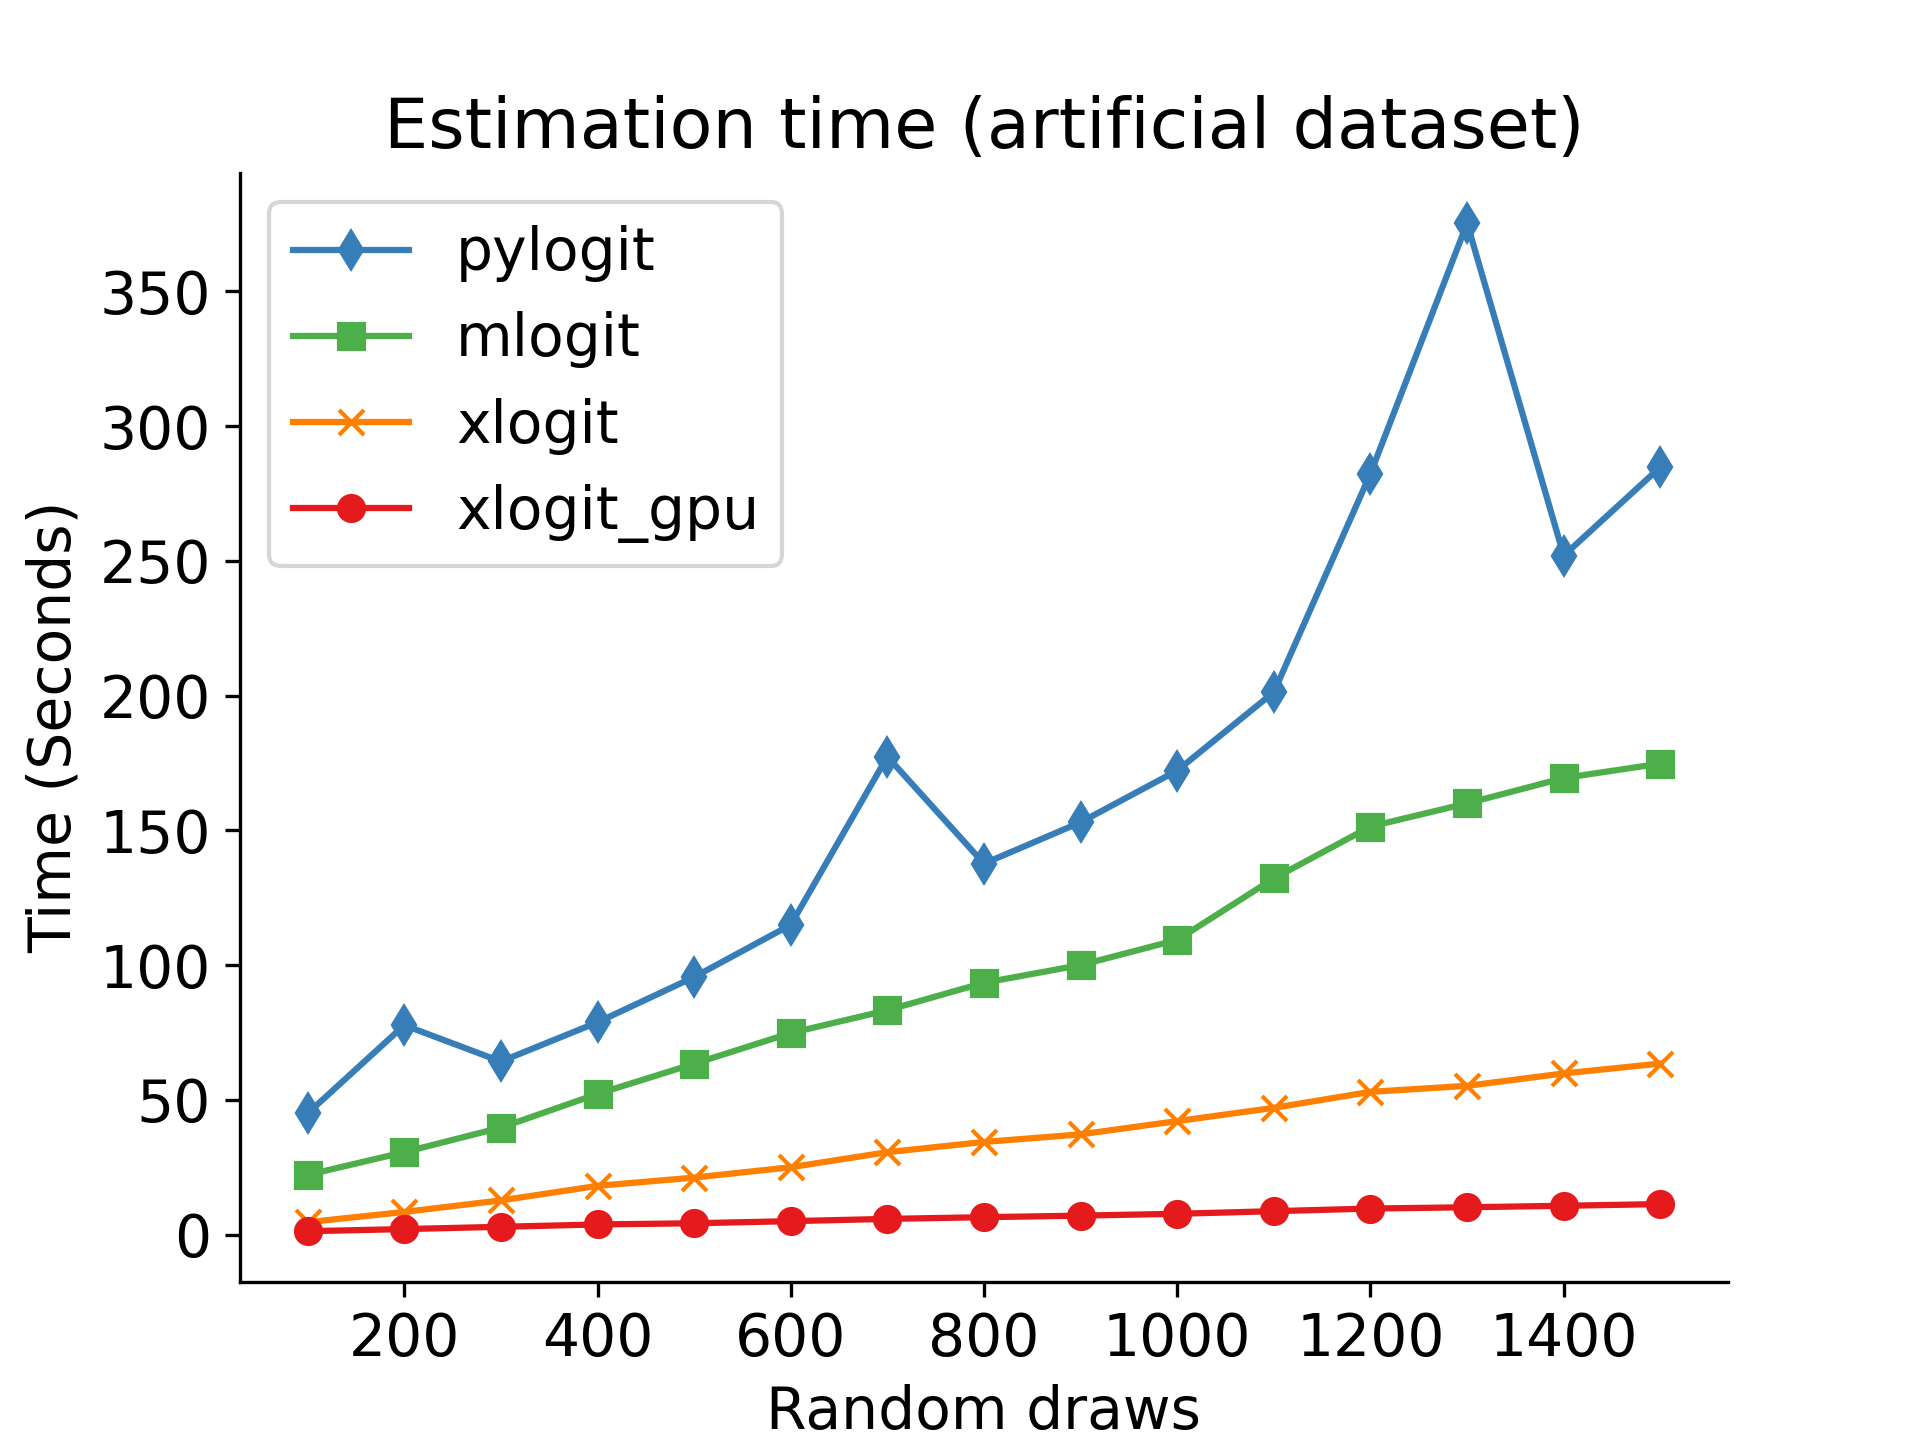
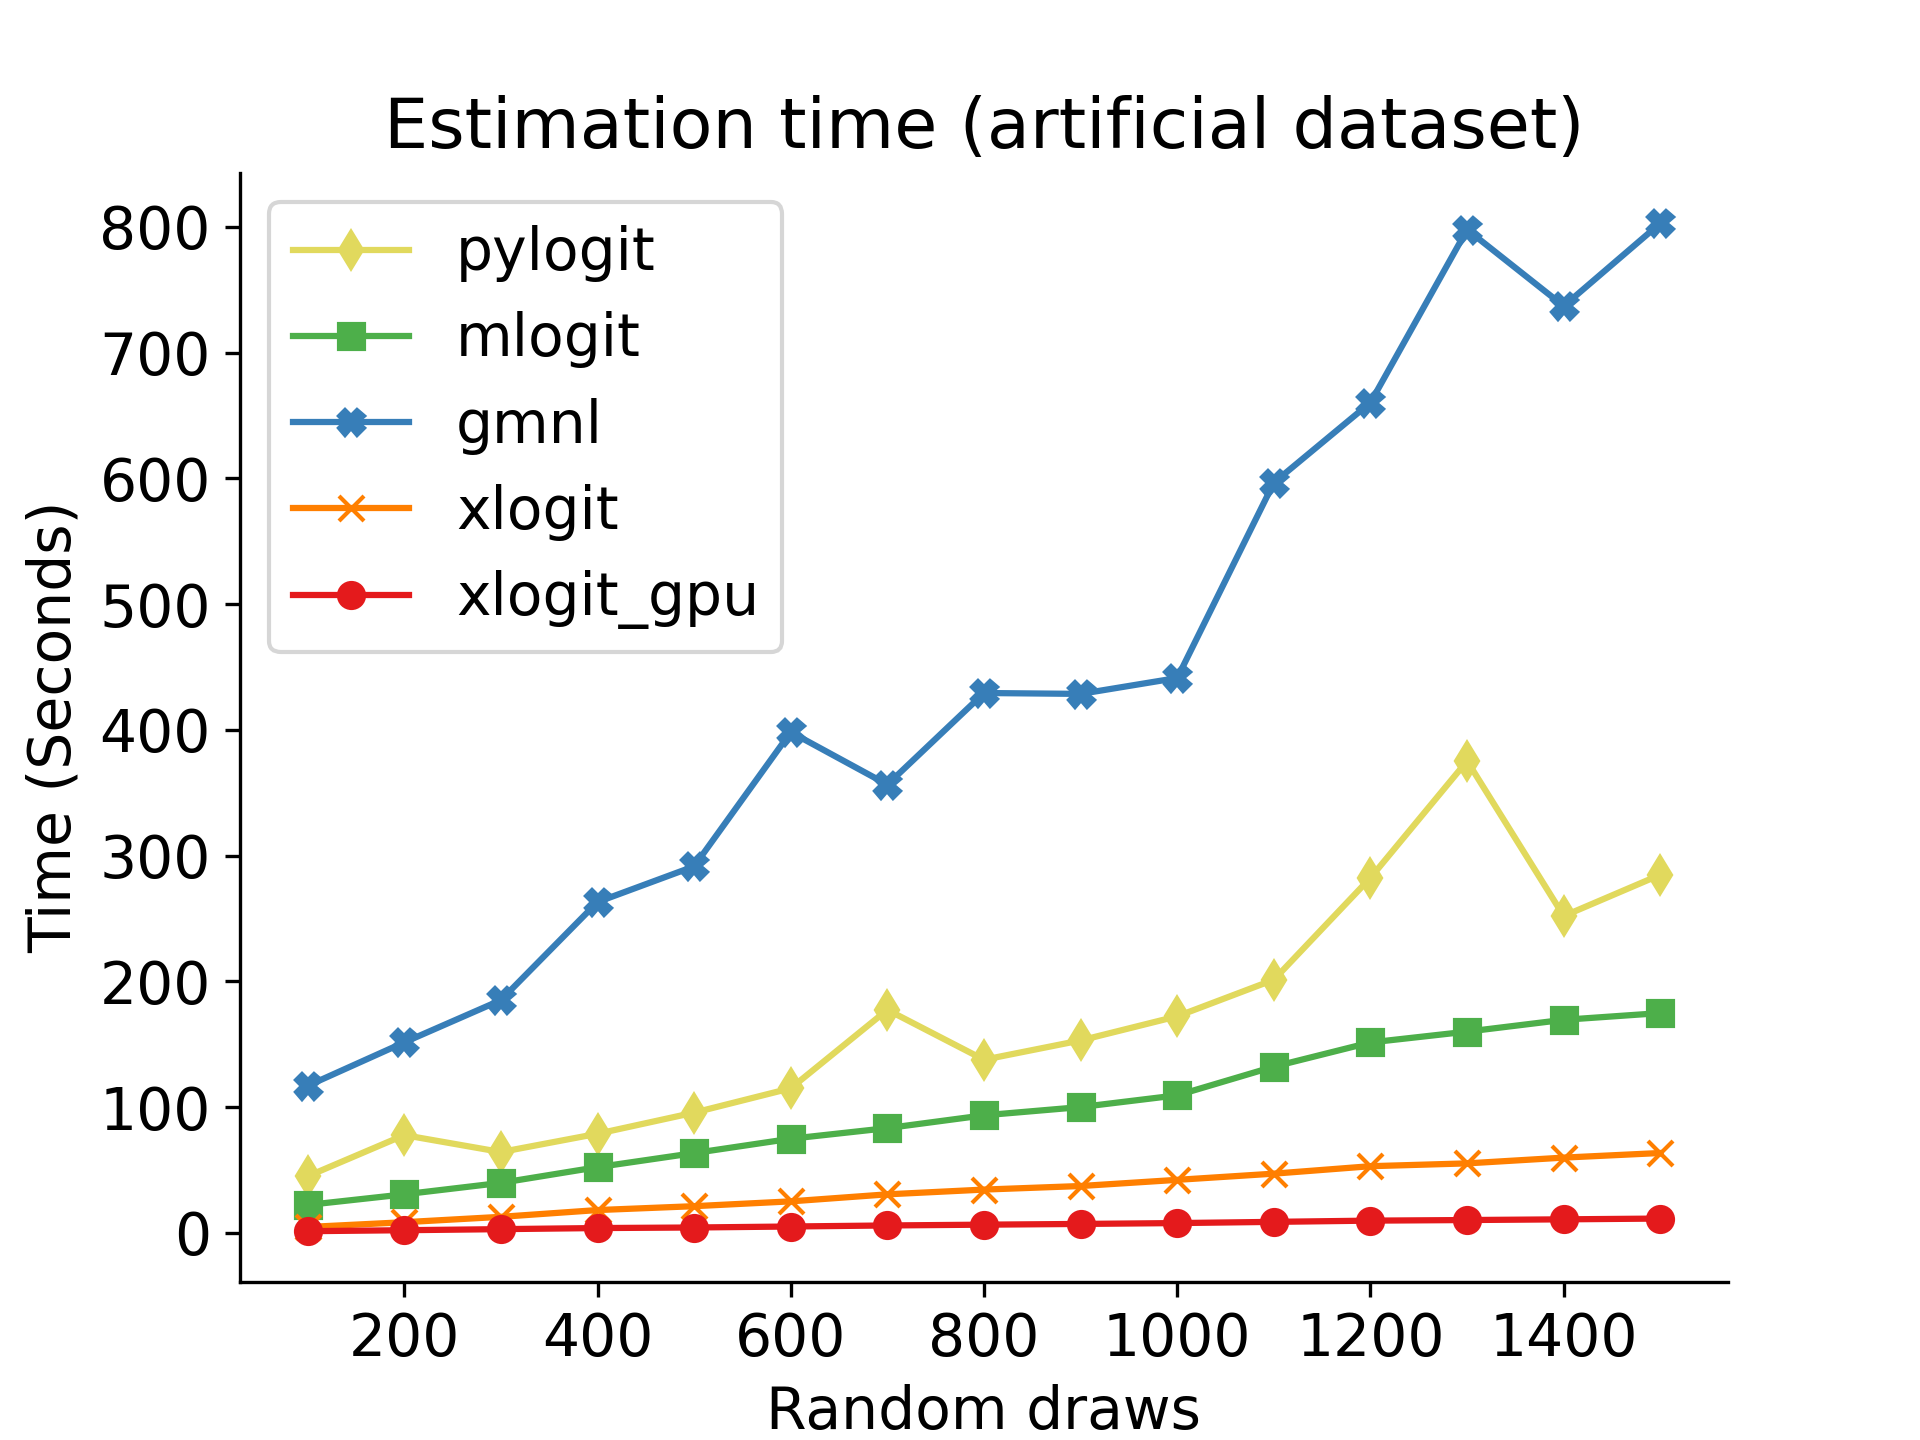
Benchmark plots updated

diff --git a/examples/benchmark/plot_results.py b/examples/benchmark/plot_results.py
@@ -7,16 +7,24 @@ from tools import log
 matplotlib.rcParams.update({'font.size': 14,
                             'axes.spines.right': False,
                             'axes.spines.top': False})
-markers = ['d', 's', 'x', 'o', '^', '|']
-colors = ["#377eb8", "#4daf4a", "#ff7f00", "#e41a1c", "#984ea3",
-          "#a4c500"]
+colors = ["#e1d95d", #yellow pylogit
+          "#4daf4a", #green mlogit
+          "#377eb8", #blue gmnl          
+          "#ff7f00", #orange xlogit
+          "#e41a1c", #red    xlogit_gpu
+          "#984ea3",  #purple mixl 
+          "#a4c500", #lgreen biogeme
+          "#00b5aa", #lblue apollo
+          ]
+
+markers = ['d', 's', 'X', 'x', 'o', '^', '|']
 
 # ==========================================
 # pylogit and mlogit benchmark
 # ==========================================
 df = pd.read_csv("results/benchmark_results.csv")
 
-libs = ['pylogit', 'mlogit', 'xlogit', 'xlogit_gpu']
+libs = ['pylogit', 'mlogit', 'gmnl', 'xlogit', 'xlogit_gpu']
 
 
 def plot_memory_benchmark(dataset):
@@ -26,7 +34,7 @@ def plot_memory_benchmark(dataset):
         d = dfe[dfe.library == lib][["draws", "ram"]].values.T
         plt.plot(d[0], d[1], marker=markers[i], c=colors[i])
     d = dfe[dfe.library == "xlogit_gpu"][["draws", "gpu"]].values.T
-    plt.plot(d[0], d[1], marker=markers[3], c=colors[3],
+    plt.plot(d[0], d[1], marker=markers[4], c=colors[4],
              linestyle="--")
     plt.legend([i + " (RAM)" for i in libs] + ["xlogit_gpu (GPU)"])
     plt.xlabel("Random draws")
@@ -81,8 +89,8 @@ for lib in libs:
 
 
 def plot_time_benchmark_apollo_biogeme(df):
-    plt.figure(figsize=(8, 7))
-    for li, lib in enumerate(['apollo', 'biogeme']):
+    plt.figure(figsize=(10, 8))
+    for li, lib in enumerate(['apollo', 'biogeme', 'mixl']):
         for c, cores in enumerate(r_cores):
             idx = (df.library == lib) & (df.cores == cores)
             d = df[idx][["draws", "time"]].values.T
@@ -96,8 +104,8 @@ def plot_time_benchmark_apollo_biogeme(df):
             plt.plot(d[0], d[1], marker=markers[li], c=colors[li],
                      label=lib)
 
-    plt.legend(loc='upper center', bbox_to_anchor=(0.5, -0.11),
-               ncol=3)
+    plt.legend(#loc='right', #bbox_to_anchor=(0.5, -0.11),
+               ncol=1)
     plt.xlabel("Random draws")
     plt.ylabel("Time (Seconds)")
     plt.title("Estimation time (artificial dataset)")
@@ -107,6 +115,7 @@ def plot_time_benchmark_apollo_biogeme(df):
 
 
 plot_time_benchmark_apollo_biogeme(dfab)
+
 # ==========================================
 # comparison table
 # ==========================================
@@ -115,6 +124,7 @@ maxc = 64 if not mini else 4
 dfc = dfab.copy()
 dfc = dfc.drop(dfc[(dfc.library == "apollo") & (dfc.cores != maxc)].index)
 dfc = dfc.drop(dfc[(dfc.library == "biogeme") & (dfc.cores != maxc)].index)
+dfc = dfc.drop(dfc[(dfc.library == "mixl") & (dfc.cores != maxc)].index)
 dfc = dfc.drop(['cores', 'loglik'], axis=1)  # Keep only time
 # Reshape to have time as columns
 dfc = dfc.pivot(index='library', columns='draws', values='time')
